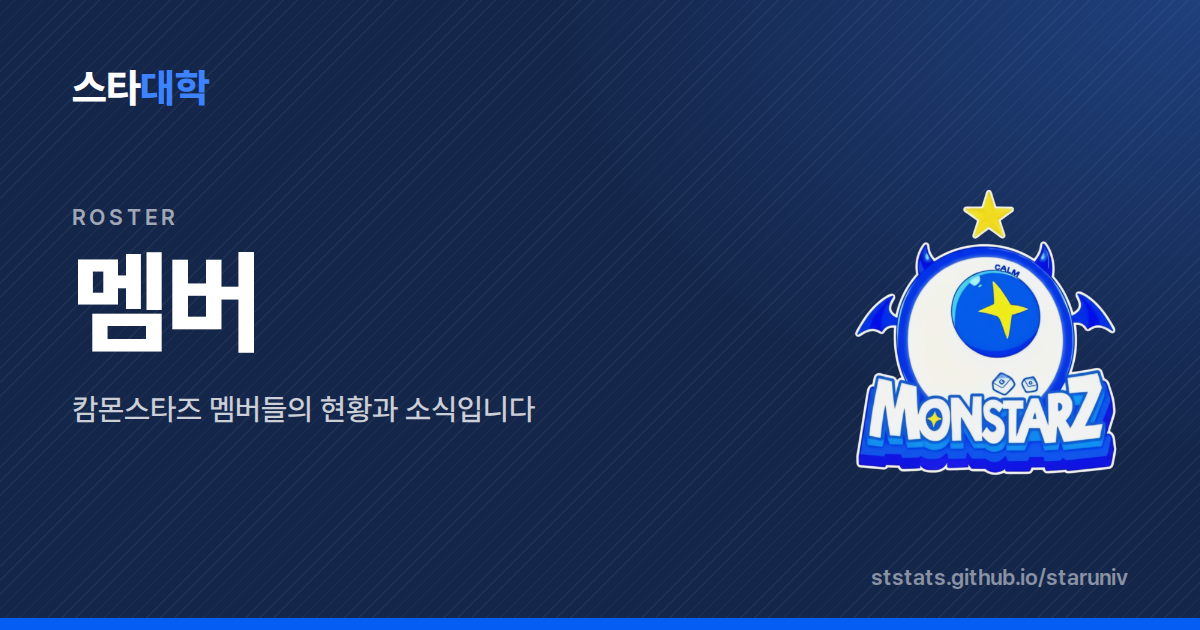
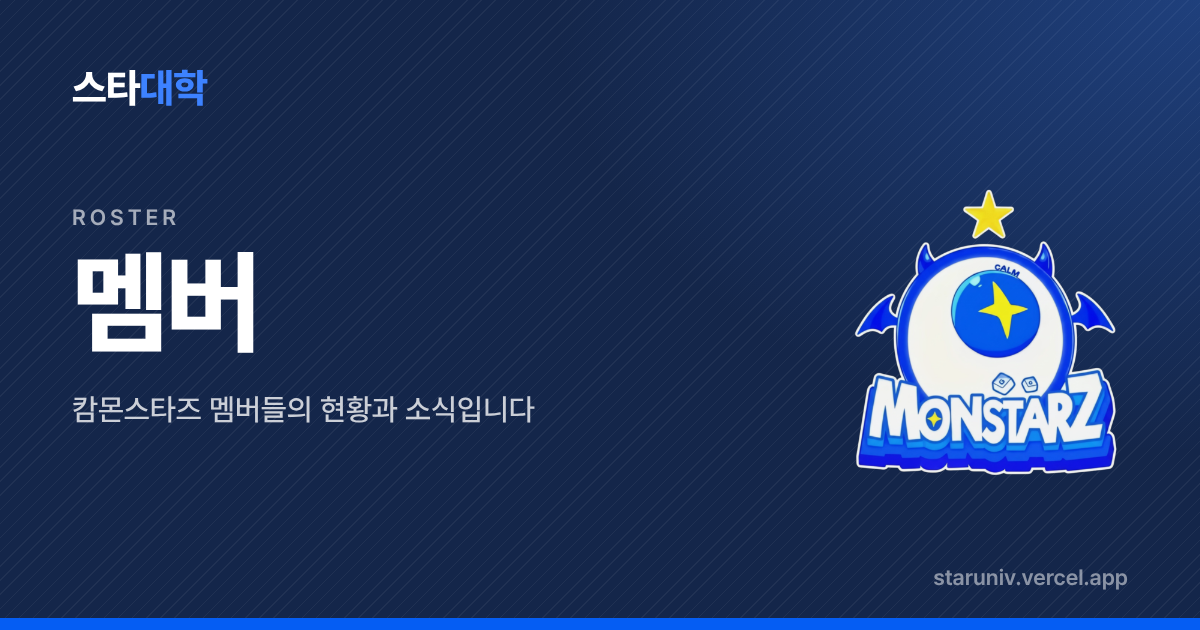
대표 주소를 staruniv.vercel.app으로(canonical·사이트맵·robots·미리보기 이미지)
github.io 쪽은 같은 글로 묶이도록 canonical이 vercel 주소를 가리킨다.

Claude-Session: https://claude.ai/code/session_01McfvX6fqqg9cxUpVoAHFVb

diff --git a/scripts/build_html.py b/scripts/build_html.py
@@ -35,7 +35,7 @@ PAGES = [
 ]
 SITE_NAME = '스타대학'
 # canonical·미리보기 이미지용이라 절대 주소여야 한다(끝의 / 없이).
-SITE_URL = os.environ.get('SITE_URL', 'https://ststats.github.io/staruniv').rstrip('/')
+SITE_URL = os.environ.get('SITE_URL', 'https://staruniv.vercel.app').rstrip('/')
 # 카카오톡이 webp 미리보기를 못 보여 줘서 PNG로 둔다.
 def og_image_path(page_id):
     return f'images/share/{page_id}.png'

diff --git a/scripts/make_share_images.py b/scripts/make_share_images.py
@@ -63,7 +63,7 @@ p {{ margin-top: 26px; max-width: 760px; font-size: 30px; font-weight: 500; line
 <h1>{html.escape(title)}</h1>
 <p>{html.escape(description)}</p>
 <div class="team"></div>
-<div class="url">ststats.github.io/staruniv</div>
+<div class="url">staruniv.vercel.app</div>
 <div class="bar"></div>
 </body></html>"""
 

diff --git a/README.md b/README.md
@@ -96,7 +96,7 @@ npm ci && npm run minify              # (선택) 배포처럼 docs/의 JS·CSS·
 - 배포 때 `scripts/minify_assets.mjs`가 `docs/`의 JS·CSS·HTML에서 주석과 공백을 뺍니다(변수 이름·코드는 그대로, 원본과 구문 트리가 같을 때만). 원본의 주석은 그대로 두고 필요한 설명을 적으면 됩니다.
 - 압축·공개 설정·배포 범위 판별의 공통 원본과 시너지 배포본 갱신 방법은 [빌드 도구 관리](scripts/build_tools/README.md)를 참조합니다. main push 검사는 Build에서 한 번 실행하고, `.github/build-paths.json`에 해당하는 변경만 배포합니다. 문서·테스트 변경도 검사는 실행하며 수동 실행은 검사 후 항상 빌드합니다.
 - 링크 미리보기 이미지는 페이지마다 `templates/static/images/share/<페이지>.png`(1200×630)입니다. 페이지 이름·설명을 바꾸면 `python scripts/make_share_images.py`로 다시 만듭니다. 카카오톡은 미리보기를 오래 기억하므로 바로 안 바뀌면 카카오 개발자 사이트의 '공유 디버거'에서 캐시를 지웁니다.
-- 빌드가 `sitemap.xml`·`robots.txt`도 만듭니다. 관리자 화면은 `noindex`라 검색에 나오지 않습니다. 구글 서치 콘솔·네이버 서치어드바이저에 `https://ststats.github.io/staruniv/sitemap.xml`을 한 번 등록하면 검색에 빨리 잡힙니다.
+- 빌드가 `sitemap.xml`·`robots.txt`도 만듭니다. 관리자 화면은 `noindex`라 검색에 나오지 않습니다. 대표 주소(canonical·사이트맵·미리보기)는 `https://staruniv.vercel.app`(`scripts/build_html.py`의 `SITE_URL`)이라 github.io 쪽은 같은 글로 묶입니다. 구글 서치 콘솔·네이버 서치어드바이저에 `https://staruniv.vercel.app/sitemap.xml`을 한 번 등록하면 검색에 빨리 잡힙니다.
 - 티어 순서·직책 순서는 `templates/assets/core.js` 맨 위 `SITE_ORDER` 한 곳에서만 고칩니다(파이썬 빌드도 읽음).
 - 공개 CSS는 `templates/assets/style/`의 섹션 파일(`00-reset.css` … `19-utilities.css`)이고, 빌드가 이름 순서대로
   합쳐 `docs/style.css`로 냅니다. **우선순위는 `00-reset.css` 맨 위의 `@layer` 계층 순서**(reset → base → layout →
